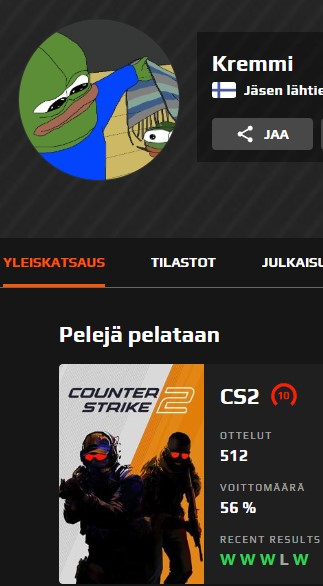
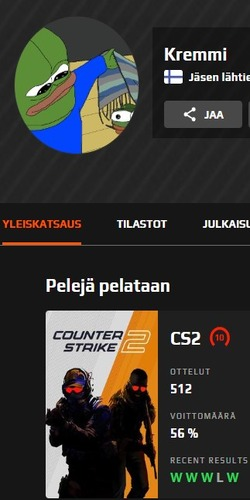
kuvista tehty samankokoisia
250x500

diff --git a/kuka_olen.html b/kuka_olen.html
@@ -22,7 +22,7 @@
         <div class="group">
             <figure>
                 <a href="https://www.op.gg/summoners/eune/scrocs-EUNE">
-                    <img src="opgg.jpg" style="width:100%;" Kuva jossa näkyy OP.GG profiilini>
+                    <img src="opgg.jpg" style="width:100%;" alt="Kuva jossa näkyy OP.GG profiilini">
                 </a>
                 <figcaption>op.gg</figcaption>
             </figure>
@@ -32,7 +32,7 @@
         <div class="group">
             <figure>
                 <a href="https://www.faceit.com/fi/players/Kremmi">
-                    <img src="faceit.jpg" alt="Kuva jossa näkyy faceit profiilini">
+                    <img src="faceit.jpg" style="width:100%;"  alt="Kuva jossa näkyy faceit profiilini">
                 </a>
                 <figcaption>Faceit</figcaption>
             </figure>
